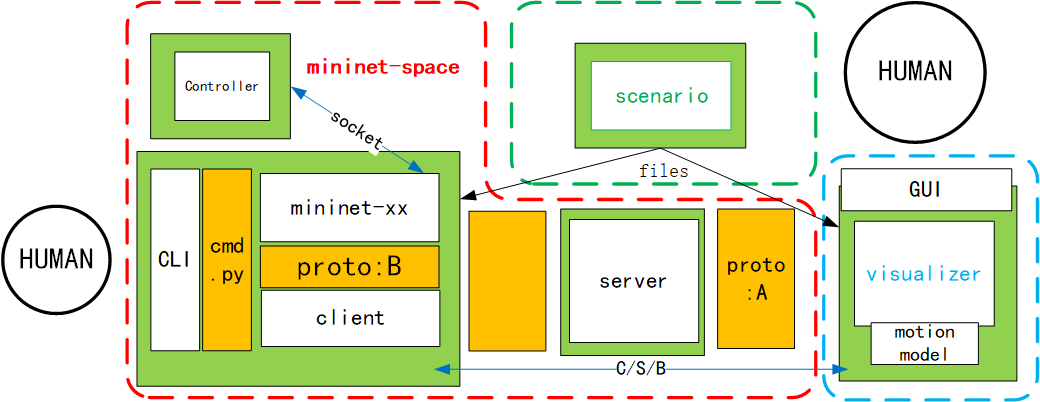
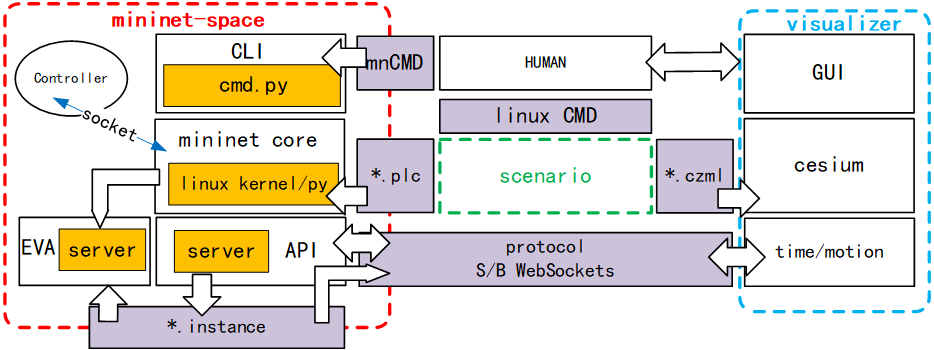
readme update

diff --git a/README_ch.md b/README_ch.md
@@ -5,77 +5,83 @@
 空间网络的仿真\模拟框架。
 
 
-*spaceflow* 是一个仿真/仿真框架，可以对空间进行仿真，例如卫星、车辆、星际链路等，以及上述实体之间的网络仿真。该框架支持在空间网络中开发新的协议、架构和管理。
+*spaceflow* 是一个仿真/模拟框架，可以对空间进行仿真，例如巨星座、车辆、飞行器、舰船、星间链路等，以及上述实体之间的网络模拟，实现iperf、ping的测量。该框架支持在空间网络中开发新的设施架构、协议架构和管理架构。该框架包含三个部分：*Scenario*、*mininet-space* 和*Visualizer*，现逐个介绍
 
 ![](./fig/framework.png)
 
-## 目录
+
+## 1.*scenario*
 
 
-  - [组成](#组成)
-  - [cite](#cite)
-  - [scenario](#scenario)
-  - [visualizer](#visualizer)
-  - mininet-space
+*scenario*为一组用户程序，用于构建空间网络的模拟场景，针对生成*visualizer*需要的`*.czml`文件，以及针对*mininet-space*生成`*.plc`文件制定网络过程。
+`*.czml`文件和`*.plc`文件是仿真场景在空间和网络两个方面的不同抽象，但具有一致性，例如同一个节点在空间部分的`*.czml`文件中和和网络部分的`*.plc`文件中具有同一ID，链路等其他单元也是类似。
+
+## 2.*visualizer*
+
+*visualizer*是一个基于*Cesium*的Web端可视化工具，不仅可以将*scenario*生成的场景可视化，还可以连接到*mininet-space(visualizer-backend)*，将网络过程可视化。
+
+## 3.*mininet-space*
+
+*mininet-space* 是一个基于mininet 的网络仿真器，在整个框架中起主干部分，也是整个框架中最复杂的部分，目前以*visualizer-backend*暂时嵌入到整个框架中，以作为替代，实现基本操作。
+在主体结构中，可以根据功能分为四个部分：核心子系统、CLI子系统、外部程序调用的API子系统和网络评估子系统。另外，控制器代码执行在另一个进程中，通过socket和网络仿真器交互，这里暂不讨论。
+
+**CLI（Command Line Interface）子系统**：是用户和网络模拟器的交互接口，通过拓展mininet 命令集实现交互。拓展命令除了核心子系统的操作还包括visualizer操作（例如空间部分的开始和停止，图层的显示、隐藏等）、评估子系统（EVA）的操作等拓展。
+
+**核心子系统**：是以mininet为基础，能根据`*.plc`文件，构建与空间场景能相互映射的网络场景，实现网络仿真的基本保障。其与mininet、mininet-space最重要的不同是添加了两个特性：
+- 节点运动模型并非运行在本地进程空间而是在visualizer内；
+- 节点距离变化导致的传播时延计算要在链路(link)属性中实时更新。
+
+另外，现有核心子系统中传播模型较少，并且执行在主进程空间，在节点数量少的场景性能瓶颈不严重，后期需要将其通过异步编程，提升结点数量较多场景下的性能。
+
+
+**API子系统**：主要负责网络仿真器与外部程序、其他仿真单元的交互功能。API的实现是通过开启一个独立线程，来承载Websocket服务器，并通过自定义协议，实现高通量数据交互（包括上千节点的位置或者上万个链路长度等信息）。为此，我们根据仿真需求，设计了仿真单元数据交互协议（Simulation Unit Data Interaction protocol, SUDI），并以JSON数据格式传输。
+
+报文分为三个字段，DO、OPTION、VALUE。DO字段决定报文种类，OPTION为报文的执行参数，VALUE为报文所携带的数据。报文种类包括get报文、set报文、post报文、clear报文以及两种响应控制报文。为了后期报文的拓展以及人工干预，报文的设计类似linux命令行风格，可读性较强。另外，从Net->Space（NS）过程中，报文头部需要在visualizer内以js解析；而SN过程中用python解析。
+
+报文各个字段含义如下：
+
+| [DO]  | [OPTION]      | [VALUE]     | note |                  | 响应      |
+| ----- | ------------- | ----------- | ---- | ---------------- | --------- |
+| get   | -p,(position) | id1,id2,... | N->S |                  | post,nack |
+|       | -l,(length)   | id1,id2,... | N->S |                  |
+|       | --all         |             |      |                  |
+|       | --sat         |             |      | 卫星             | post,nack |
+|       | --gs          |             |      | 地面站           | post,nack |
+|       | --ac          |             |      | 飞行器           | post,nack |
+|       | --isl         |             |      | ISL              | post,nack |
+| set   | -t            |             | N->S |                  |           |
+|       |               |             |      |                  |           |
+| post  | -p            |             | S->N | 传输position信息 | ack,nack  |
+|       | -l            |             | S->N | 传输link信息     |
+|       | -f            |             | N->S | 传输fwd信息      |           |
+| clear | -f            |             | N->S | 清除显示的fwd    | ack,nack  |
+|       |               |             |      |                  |
+| ack   | -             | -           |      |                  | -         |
+| nack  | -             | -           |      |                  | -         |
+
+
+API子系统的技术关键在于不影响核心子系统内网络仿真、且运行时不妨碍CLI子系统正常与用户交互下实现不同仿真单元的交互。
+
+**EVA子系统**：EVA是对网络进行可视化评估的子系统，目前实现了通过matplotlib对端到端时延、可见性、星座统计等信息的可视化演示，后期计划将其融合到SUDI中，并在visualizer中显示。
+
+
   
-## 组成
-
-该框架包含三个部分：
-- [scenario](https://github.com/xdr940/scenario)
-- mininet-space
-- [visualizer](https://github.com/xdr940/visualizer)
-
-*scenario*用于构建空间网络的模拟场景，生成*visualizer*需要的CZML文件。
-
-*mininet-space* 是一个基于 mininet 的网络仿真器，目前仍在开发中。暂时嵌入到整个框架中，以[visualizer-backend](https://github.com/xdr940/visualizer-backend)作为替代，实现基本操作。
-
-*visualizer*是一个可视化工具，不仅可以将*scenario*生成的场景可视化，还可以连接到*mininet-space(visualizer-backend)*，将网络过程可视化。
 
 
-## scenario
 
-基于python，包含卫星(SATs)，地面站(GSs)，飞行器(ACs)，sensor，转发(FWDs), 链路.
-其中链路又包括星间链路(ISLs), 星地链路(GSLs), 飞行器-卫星链路(ASLs), 临时兴建链路(tISLs)
 
-构建顺序：
-    `SAT.py -> ISL.py -> FWD.py`
-    `GS.py -> GSL.py`
-    `SAT.py -> ISL.py -> tISL.py`
-    `ACs.py -> ASL.py`
-
-## visualizer
-
-- SAT
-![](./fig/SAT.png)
-
-- GS
-![](./fig/GS.png)
-- GSL
-![](./fig/GSL.png)
-- ISL
-![](./fig/ISL.png)
-
-- FWD
-![](./fig/FWD.png)
-
-- tISL
-![](./fig/tISL.png)
-
-- ASL
-![](./fig/ASL.png)
 
 ## cite
 ```tex
 @misc{spaceflow,
-
 author={Wang Xiangtong},
-
 title={SpaceFlow},
 year = {2022},
-
 howpublished={\url{https://github.com/xdr940/spaceflow}}
-
 }
-
-
 ```
+
+
+![](./fig/ISL.png)
+
+![](./fig/FWD.png)
